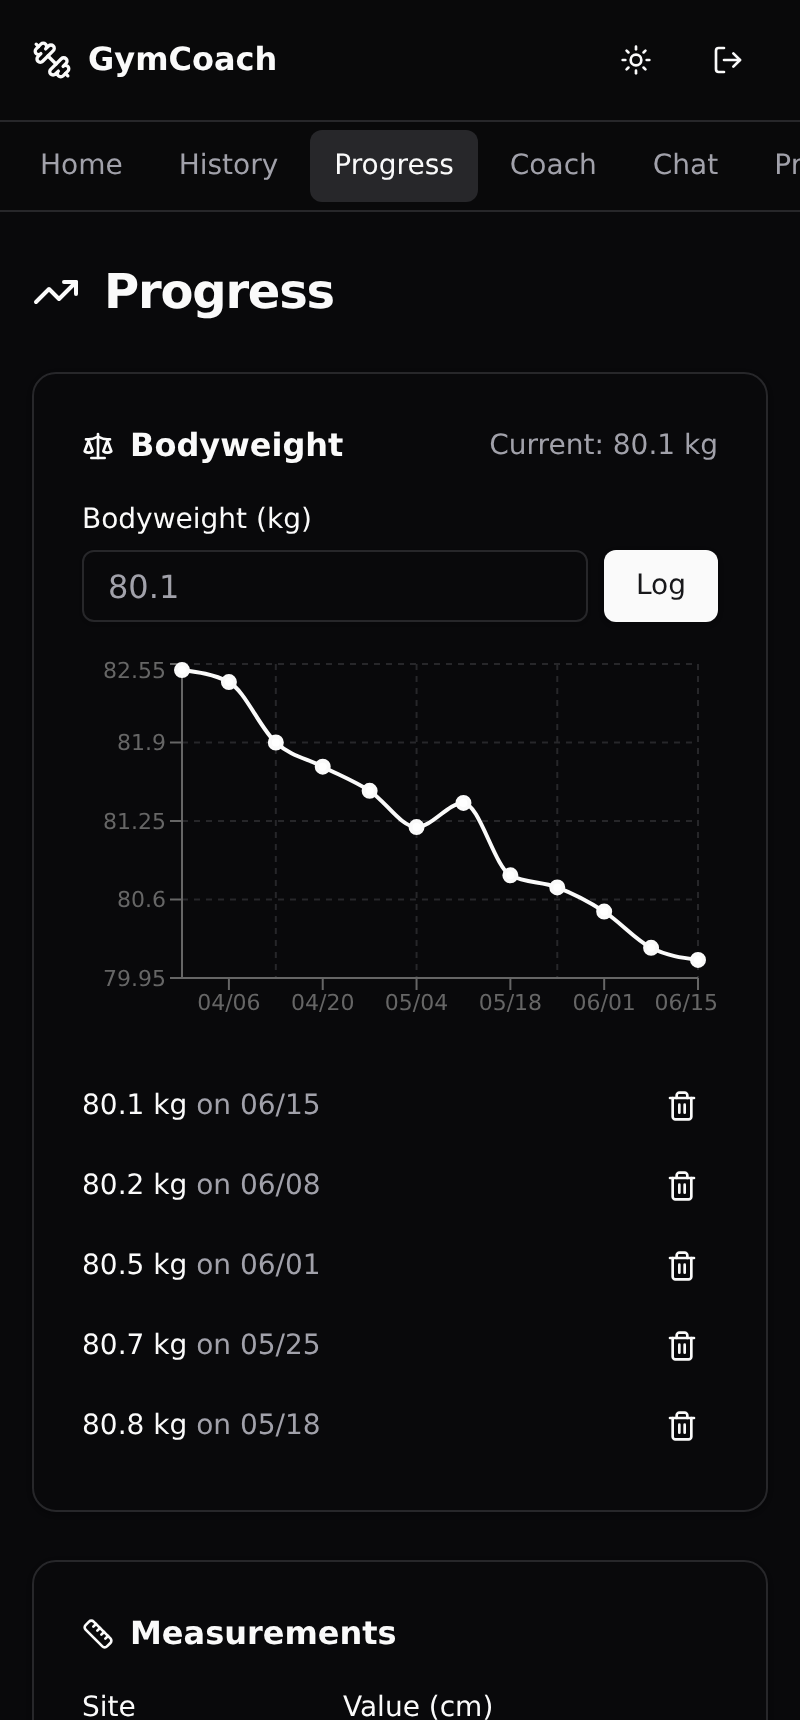
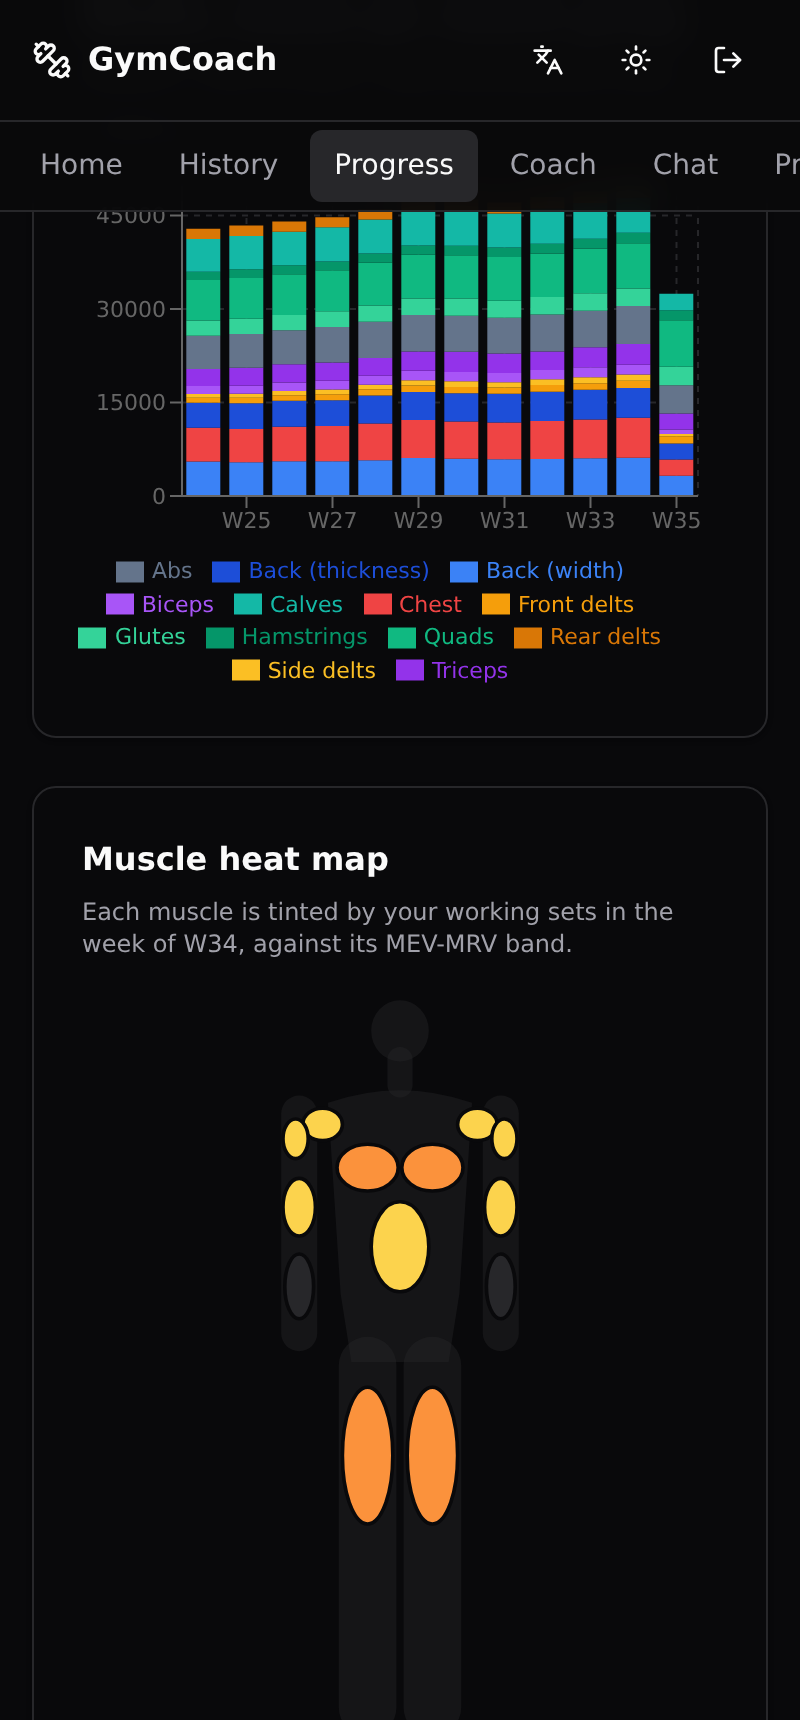
docs: refresh the README and re-shoot the screenshots for the recent batches
Standing operator directive: the README features list and the demo media are
the product's public face, and they had fallen behind - the three features
merged this week were absent, and the screenshots dated from 2026-06-18,
before the progress page gained progress photos and the muscle heat map.

- Features: return-to-training calibration (#311) and the physical gym
  equipment inventory with the equipment recorded on each set (#312, #313).
  Roadmap checkboxes for both.
- Thanks: SHAREN's second series, plus @mvnixon (#310, #314) and @gogoku121
  (#308) whose reports and proposals landed this week.
- Screenshots re-shot against a freshly seeded demo database (all four, since
  the shared chrome had drifted too).
- scripts/screenshots.mjs: shots may declare an `openOn` heading that is
  scrolled into view before capture, and the run aborts if that heading is
  missing rather than silently capturing the top of the page. Used for the
  progress shot, which otherwise opens on the bodyweight card and hides the
  muscle heat map - the most distinctive thing on that page.

Claude-Session: https://claude.ai/code/session_012otoLMg46wo2YJGTiJPUNm

diff --git a/README.md b/README.md
@@ -74,6 +74,15 @@ on your own key - all self-hosted.
   navigation and superset-aware rest.
 - **Readiness check-in** - an optional pre-session soreness/readiness prompt that
   auto-regulates the suggested load and says why it held or dropped.
+- **Return-to-training calibration** - after a real layoff, the first session
+  back is eased in on its own: fewer working sets, a higher target RIR and a
+  conservative opening load derived from your long-term history, then normal
+  autoregulation takes over. Adding a brand-new exercise is not a layoff and is
+  left alone.
+- **Your actual gym, not a generic one** - describe the concrete stations and
+  items you train on (type, manufacturer, model, quantity, item-specific weight
+  options, an optional photo), link them to the exercises they serve, and the
+  equipment you used is recorded on every set you log.
 - **Quality-of-life** - kilograms or pounds per user, an interface in English or
   Russian (extensible message catalogs), multi-user with strict per-user data
   isolation, and an installable PWA with offline logging.
@@ -365,6 +374,9 @@ than CI reaching in to a small VPS.
 - [x] Progress photos (local-only upload with side-by-side compare)
 - [x] Interface localization (English and Russian, extensible message catalogs)
 - [x] Muscle heat map (body silhouettes tinted by weekly volume vs MEV/MRV)
+- [x] Physical gym equipment inventory, with the equipment used recorded on
+      each logged set
+- [x] Return-to-training calibration after a long layoff
 
 ## Contributing
 
@@ -381,7 +393,16 @@ Notable changes are tracked in the [CHANGELOG](CHANGELOG.md).
   autoregulation (#273), saved gyms with equipment-aware load selection
   (#274), exercise technique media (#275), and the ChatGPT / MCP connector
   (#276). Along the way they also found and fixed a latent `.gitignore` bug
-  that shadowed an API route in fresh clones.
+  that shadowed an API route in fresh clones. Then a second series:
+  return-to-training calibration (#311), the physical gym equipment inventory
+  (#312) and the equipment recorded on each logged set (#313).
+- [@mvnixon](https://github.com/mvnixon) - reported the `GET /mcp` hang that
+  stopped MCP clients probing with GET from connecting at all (#314), and
+  made the case for publishing the production image so self-hosters can pull
+  instead of build (#310).
+- [@gogoku121](https://github.com/gogoku121) - proposed the browsable
+  exercise library built on an MIT-licensed dataset (#308, scoped and tracked
+  as #320).
 - Exercise technique photos come from
   [free-exercise-db](https://github.com/yuhonas/free-exercise-db) (Unlicense).
 
